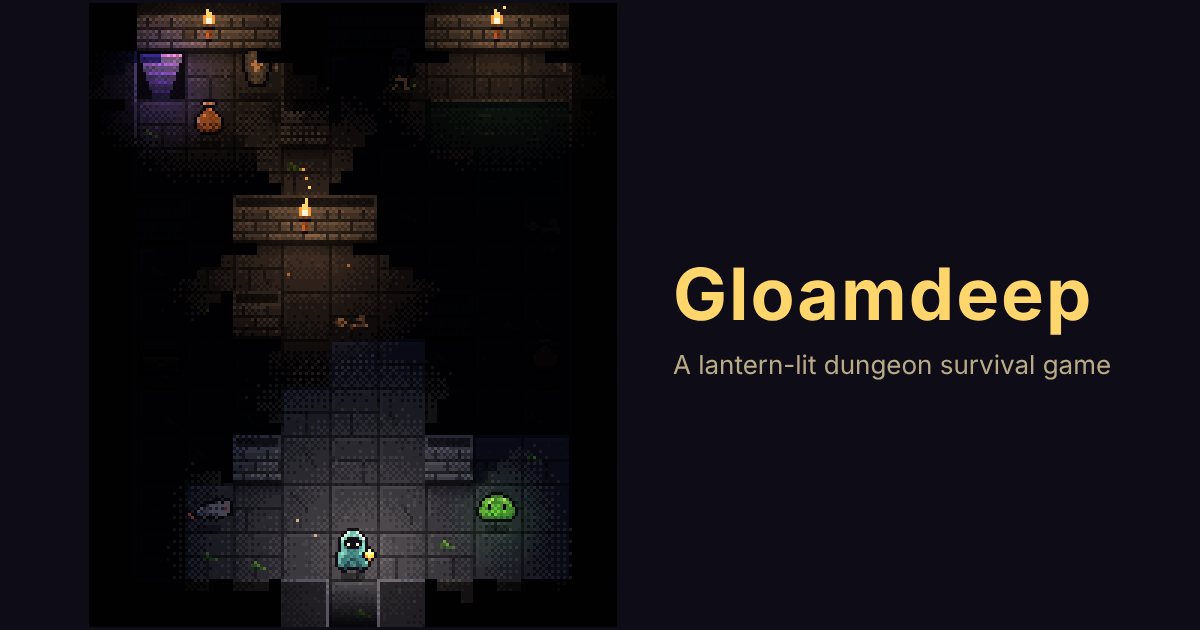
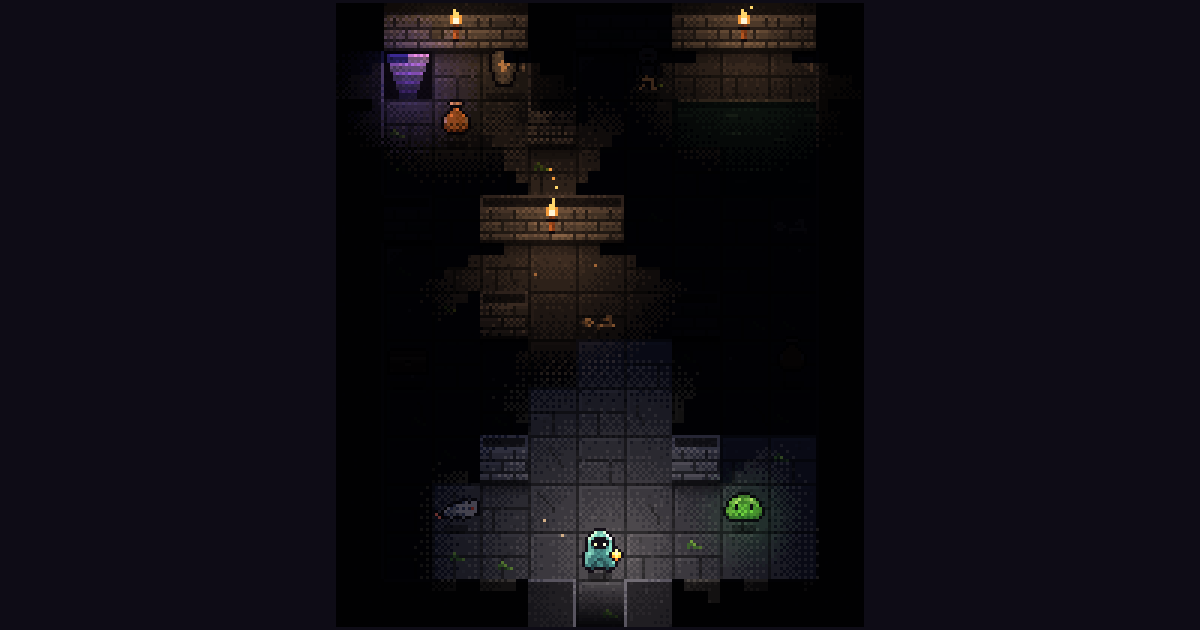
Gloamdeep card: game picture only, without the name
Claude-Session: https://claude.ai/code/session_01Y1RdL4S1aqw1zio6745vxy

diff --git a/index.html b/index.html
@@ -126,7 +126,7 @@
       </div>
     </li>
     <li class="card">
-      <img src="gloamdeep.png" alt="">
+      <img src="gloamdeep.png?v=2" alt="">
       <span class="wip">Under construction</span>
       <div class="body">
         <h2><a href="https://avatar-coco-love.github.io/gloamdeep/">Gloamdeep</a></h2>
